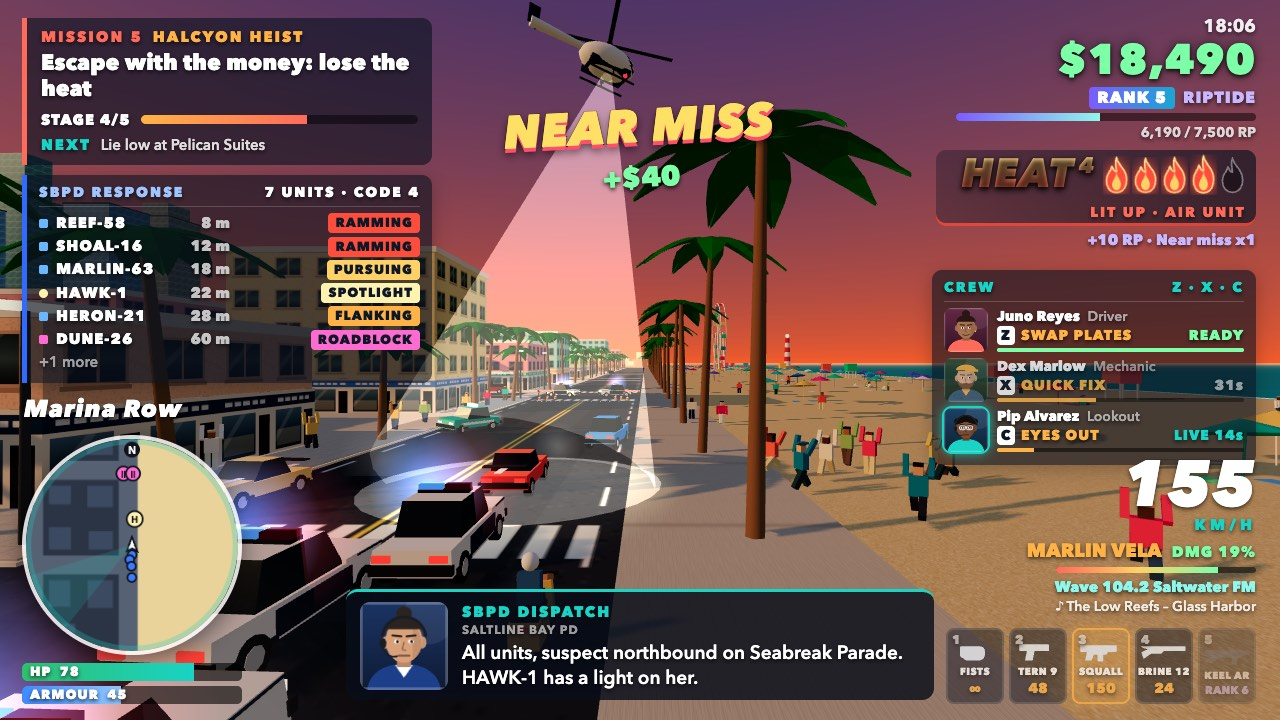
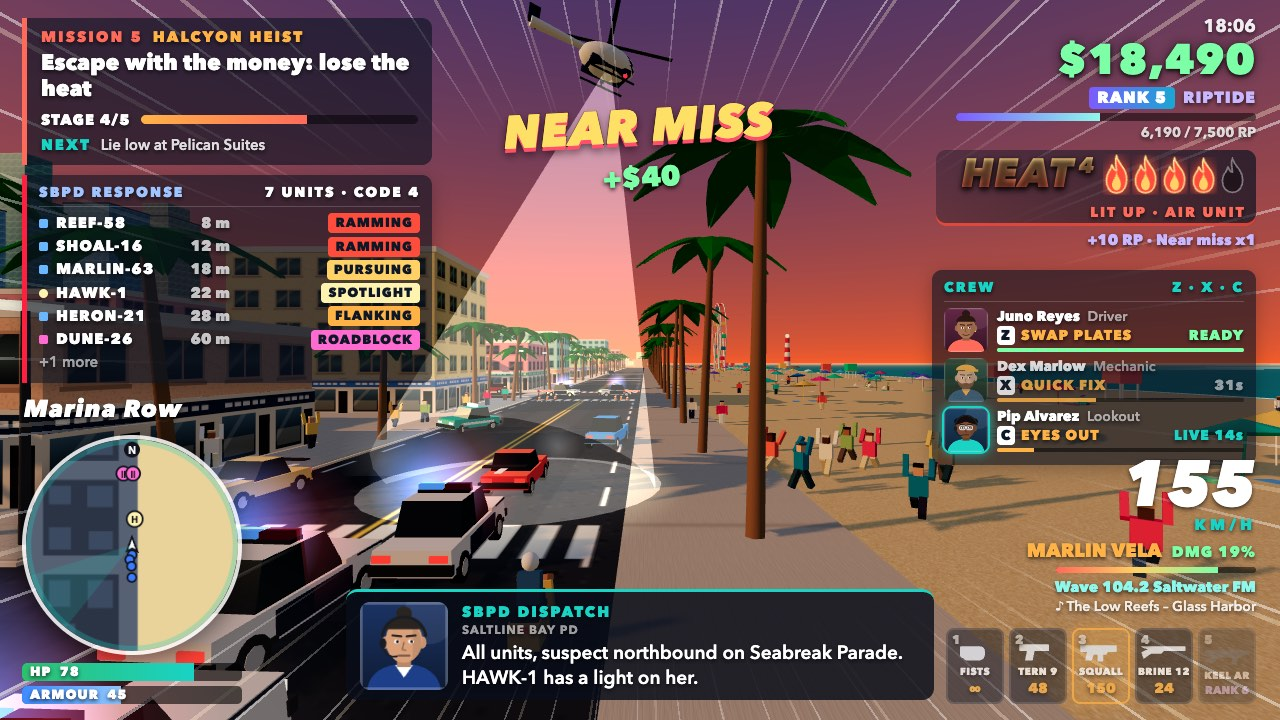
Speed lines at the screen edges above 100 km/h, cover retaken

diff --git a/game/src/ui/Hud.js b/game/src/ui/Hud.js
@@ -14,7 +14,7 @@ export class Hud {
     for (const id of ['hud', 'mission-title', 'objective-text', 'mission-timer', 'hold-bar', 'hold-fill', 'clock', 'money',
       'district-name', 'health-fill', 'armor-fill', 'health-num', 'armor-num', 'speedo', 'speed-value', 'vehicle-name',
       'crosshair', 'prompt', 'dialogue', 'dialogue-portrait', 'dialogue-speaker', 'dialogue-role', 'dialogue-text', 'banner', 'banner-title', 'banner-sub',
-      'toast', 'damage-flash', 'stunt']) this.el[id] = $(id);
+      'toast', 'damage-flash', 'stunt', 'speedlines']) this.el[id] = $(id);
     this.stuntT = 0;
     this.panels = new HudPanels(game);
     this.panelT = 0;
@@ -113,8 +113,11 @@ export class Hud {
     const v = pl.vehicle;
     el.speedo.style.display = v ? 'block' : 'none';
     el.crosshair.style.display = v || pl.dead || game.weapons.current.melee ? 'none' : 'block';
+    // Speed lines streak in at the screen edges above ~100 km/h.
+    const kmh = v ? Math.abs(v.speed) * 3.6 : 0;
+    el.speedlines.style.opacity = Math.max(0, Math.min(0.75, (kmh - 100) / 80));
     if (v) {
-      el['speed-value'].textContent = Math.round(Math.abs(v.speed) * 3.6);
+      el['speed-value'].textContent = Math.round(kmh);
       el['vehicle-name'].textContent = v.type.name.toUpperCase();
     }
     this.panelT -= dt;

diff --git a/game/styles/hud.css b/game/styles/hud.css
@@ -168,6 +168,12 @@ html, body { margin: 0; height: 100%; overflow: hidden; background: #0d1726; fon
 
 #toast { position: absolute; left: 50%; transform: translateX(-50%); top: 22px; white-space: nowrap; font-size: 18px; font-weight: 700; background: var(--panel);
   padding: 8px 14px; border-radius: 8px; display: none; border-right: 4px solid var(--sun); }
+#speedlines { position: absolute; inset: 0; opacity: 0; pointer-events: none;
+  background:
+    repeating-conic-gradient(from 1deg at 50% 52%, transparent 0deg 4.3deg, rgba(255,255,255,.7) 4.3deg 4.55deg, transparent 4.55deg 7deg),
+    repeating-conic-gradient(from 3deg at 50% 52%, transparent 0deg 9.1deg, rgba(255,240,210,.5) 9.1deg 9.5deg, transparent 9.5deg 11deg);
+  -webkit-mask-image: radial-gradient(ellipse 58% 56% at 50% 52%, transparent 62%, #000 100%);
+  mask-image: radial-gradient(ellipse 58% 56% at 50% 52%, transparent 62%, #000 100%); }
 #damage-flash { position: absolute; inset: 0; box-shadow: inset 0 0 160px rgba(220, 20, 40, .9); opacity: 0; transition: opacity .3s; }
 
 /* Title screen */

diff --git a/game/index.html b/game/index.html
@@ -13,6 +13,7 @@
 <canvas id="view" aria-label="Saltline: third-person open-world city"></canvas>
 
 <div id="hud" class="hidden">
+  <div id="speedlines"></div>
   <div id="left-col">
     <div id="objective-panel">
       <div id="mission-head"><span id="mission-num"></span><span id="mission-title"></span></div>
